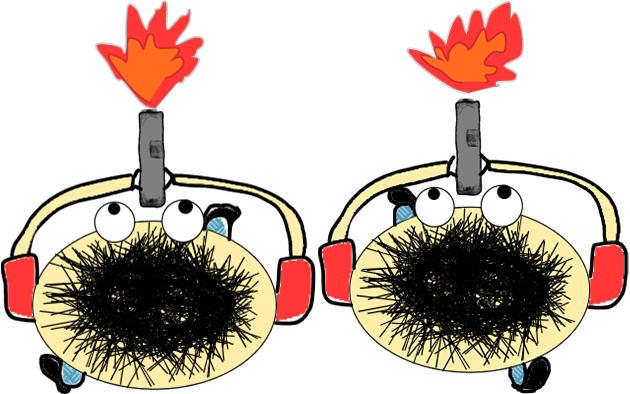
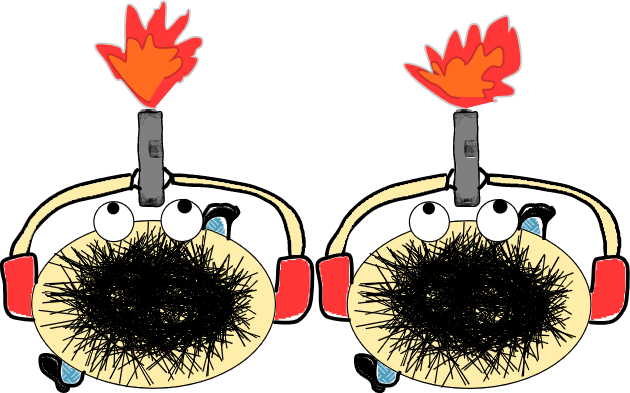
Animation Cooldown, and picture

diff --git a/zombie/Player/src/main/java/dk/sdu/mmmi/cbse/playersystem/PlayerControlSystem.java b/zombie/Player/src/main/java/dk/sdu/mmmi/cbse/playersystem/PlayerControlSystem.java
@@ -18,12 +18,9 @@ import java.util.UUID;
 
 @ServiceProvider(service = IEntityProcessingService.class)
 public class PlayerControlSystem implements IEntityProcessingService {
-    
-    private int cooldown = 250;
-    private long shootDelay = System.currentTimeMillis();
-    //To be deleted: Testy
-    private boolean testy = true;
-    
+
+    private WeaponPart weaponPart;
+
     @Override
     public void process(GameData gameData, World world) {
 
@@ -38,16 +35,14 @@ public class PlayerControlSystem implements IEntityProcessingService {
                 AnimationPart animationPart = (AnimationPart) world.getMapByPart("AnimationPart").get(entry.getKey());
                 CombatPart combatPart = (CombatPart) world.getMapByPart(CombatPart.class.getSimpleName()).get(entry.getKey());
                 WeaponInventoryPart weaponInventoryPart = (WeaponInventoryPart) world.getMapByPart("WeaponInventoryPart").get(entry.getKey());
-                CollectorPart collectorPart = (CollectorPart) world.getMapByPart(CollectorPart.class.getSimpleName()).get(entry.getKey()); 
+                CollectorPart collectorPart = (CollectorPart) world.getMapByPart(CollectorPart.class.getSimpleName()).get(entry.getKey());
 
-
-                // Mouse event testing
-                if (gameData.getMouse().isLeftClick() && shootDelay <= System.currentTimeMillis()){
-                    shootDelay = System.currentTimeMillis()+cooldown;
-                    combatPart.setAttacking(true);
-                } else {
-                    combatPart.setAttacking(false);
+                combatPart.setAttacking(gameData.getMouse().isLeftClick());
+                if (world.getMapByPart(WeaponPart.class.getSimpleName()) != null && combatPart.getCurrentWeapon() != null){
+                    weaponPart = (WeaponPart) world.getMapByPart(WeaponPart.class.getSimpleName()).get(combatPart.getCurrentWeapon());
                 }
+
+
 
                 if (gameData.getMouse().isRightClick()){
                     //Inventory testing. to be deleted
@@ -56,6 +51,7 @@ public class PlayerControlSystem implements IEntityProcessingService {
                     weaponInventoryPart.removeWeapon(removeWeaponId);
                     }
                 }
+
                 if (gameData.getMouse().isMiddleClick()){
                 }
                 if (gameData.getMouse().getScroll() == -1){
@@ -74,26 +70,13 @@ public class PlayerControlSystem implements IEntityProcessingService {
                 
                 collectorPart.setCollecting(gameData.getKeys().isPressed(GameKeys.E));
 
-                //Weapon inventory testing. Delete
-
-                if(gameData.getKeys().isDown(GameKeys.SHIFT) & testy){
-                    for(int i = 0; i < 2;i++){
-                        Entity weapon = new Entity();
-
-                weaponInventoryPart.addToInventory(weapon.getUUID());
-                world.addtoEntityPartMap(new VisualPart("sword_sprite",30,30), weapon);
-                world.addtoEntityPartMap(new PositionPart(100*i,400,2), weapon);
-                }
-                testy = false;
-                }
-
                 
                 // Animation processing
                 if (!animationPart.isCurrentAnimationInterruptible() && !animationPart.hasCurrentAnimationLooped()) {
                     animationPart.setIsAnimated(true);
                 } else {
                     animationPart.setIsAnimated(
-                        (movingPart.isDown() || movingPart.isLeft() || movingPart.isRight() || movingPart.isUp() || combatPart.isAttacking())
+                        (movingPart.isDown() || movingPart.isLeft() || movingPart.isRight() || movingPart.isUp() || (weaponPart != null && weaponPart.isIsAttacking()))
                     );
                 }
                 
@@ -105,7 +88,7 @@ public class PlayerControlSystem implements IEntityProcessingService {
                     setAnimation(animationPart, weaponAnimationPart);
                     
                     visualPart.setSpriteName(weaponAnimationPart.getIdleSpriteName());
-                    if (combatPart.isAttacking()) {
+                    if ( weaponPart.isIsAttacking() ) {
                         animationPart.setCurrentAnimation("shoot");
                     } else if (movingPart.isDown() || movingPart.isLeft() || movingPart.isRight() || movingPart.isUp()) {
                         if (animationPart.hasCurrentAnimationLooped()) {

diff --git a/zombie/HandGun/src/main/java/dk/sdu/mmmi/cbse/handgun/HandgunData.java b/zombie/HandGun/src/main/java/dk/sdu/mmmi/cbse/handgun/HandgunData.java
@@ -24,7 +24,7 @@ public class HandgunData {
         damage = 80;
         range = 800f;
         fireRate = 0.3f;
-        attackAnimationFrameDuration = 0.03f;
+        attackAnimationFrameDuration = 0.02f;
         walkAnimationFrameDuration = 0.2f;
     }
     
